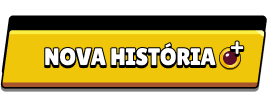
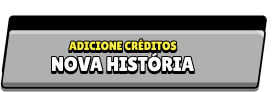
update path to profile and update btn_new_story_buy_coins

diff --git a/src/app/story/page.tsx b/src/app/story/page.tsx
@@ -193,7 +193,7 @@ A história deve conter:
                       <StoryGeneratorModal user={user} />
                     </div>
                     <div className="flex justify-center items-center max-w-full m-10">
-                      <Button className="text-primary" onClick={handleGenerateStory}>
+                      <Button className="text-primary hover:scale-110 hover:animate-pulse  active:scale-95" onClick={handleGenerateStory}>
                         <Image
                           src="/images/buttons/new_story.png"
                           alt="Play"
@@ -226,6 +226,7 @@ A história deve conter:
                           setUserCredits((prevCredits) => prevCredits + 1)
                         }}
                         variant="default"
+                        className="hover:scale-110 hover:animate-pulse  active:scale-95"
                       >
                         <Image
                           src='/images/buttons/btn_new_story_buy_coins.png'

diff --git a/src/components/UserInfo.tsx b/src/components/UserInfo.tsx
@@ -28,7 +28,7 @@ export const UserInfo: React.FC<UserInfoProps> = ({ user, handleLogin }) => {
           <div className="grid grid-cols-[1fr,auto,auto] items-center gap-2">
             <div className="flex items-center text-lg font-semibold truncate">
               <Button asChild variant="default" className="p-1">
-                <Link href="/" draggable={false} className="m-3 flex w-auto transition-transform hover:scale-110 active:scale-95">
+                <Link href="/profile" draggable={false} className="m-3 flex w-auto transition-transform hover:scale-110 active:scale-95">
                   <Image
                     src="/images/profile-images/2.png"
                     alt="Profile"

diff --git a/src/app/page.tsx b/src/app/page.tsx
@@ -54,7 +54,7 @@ export default function Home() {
 
                 <Button
                   onClick={handleNavigation("/story")}
-                  className="hover:text-primary font-bold m-5 transform transition-all duration-300 animate-pulse hover:scale-105 hover:shadow-xl animate-pulse"
+                  className="hover:text-primary font-bold m-5 transform transition-all duration-300 animate-pulse hover:scale-105 hover:shadow-xl hover:shadow-chart-4/50"
                   
                 >
                   <Image
